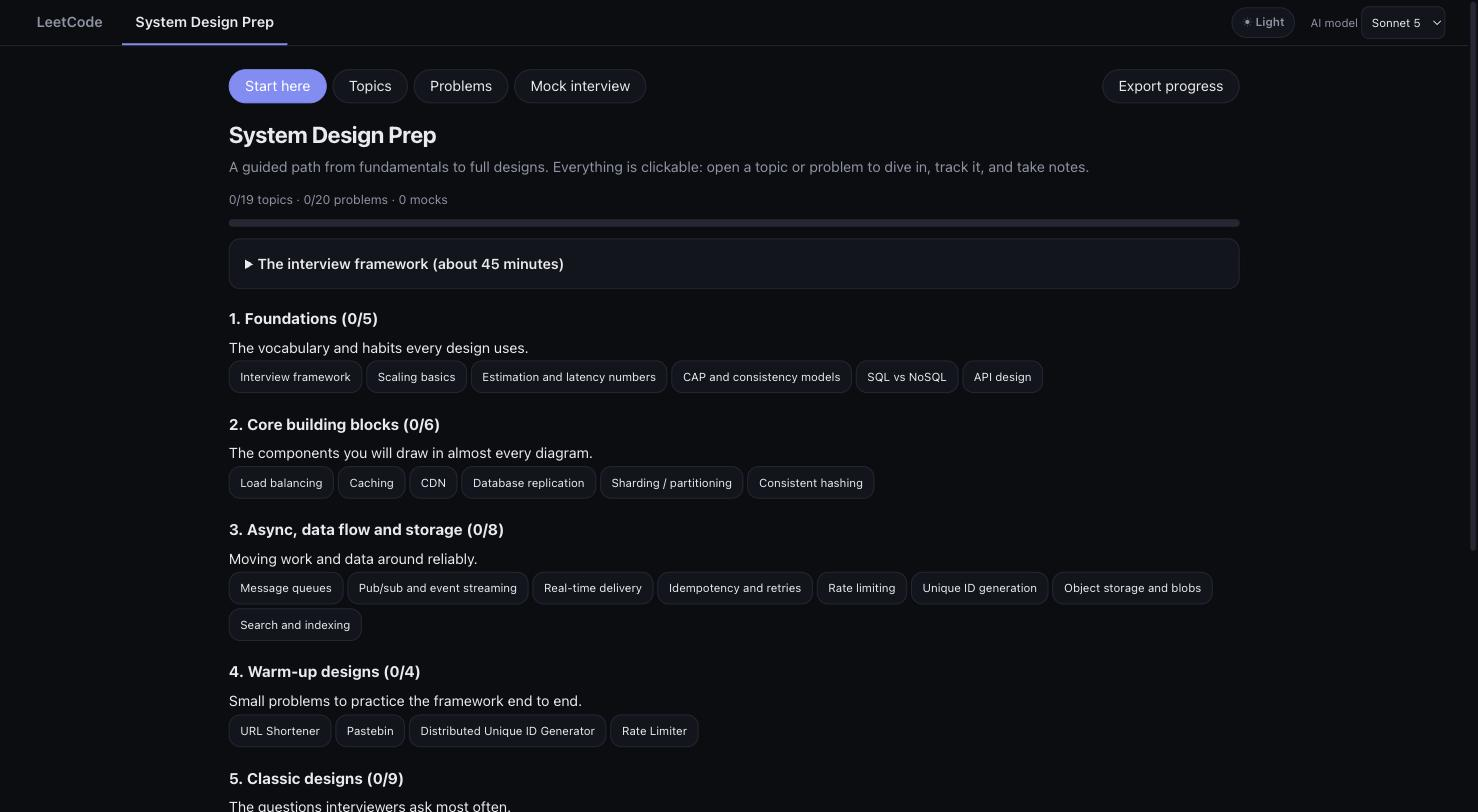
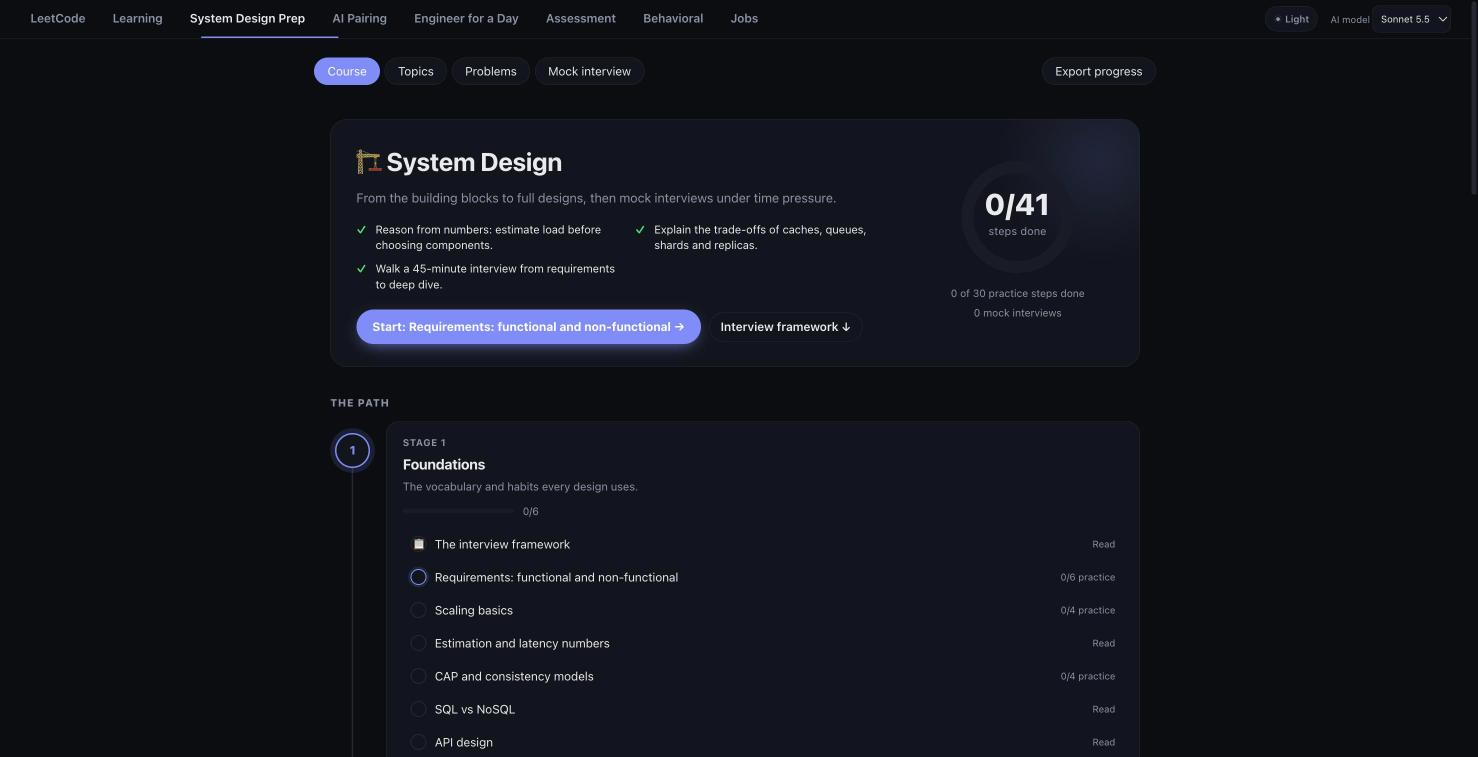
update readme with recent images

diff --git a/README.md b/README.md
@@ -60,6 +60,8 @@ More and more interviews hand you an AI assistant and watch how you use it. Here
 
 27 scenarios from Easy to Hard: URL slugs for a blog, an LRU cache with TTL, a token-bucket rate limiter, a key-value store with nested transactions, offline sync, an Express-style middleware router, a **PR review** round, a **debug-from-an-incident-ticket** round, an **elevator object-design** round where the requirements change partway through, and more.
 
+![AI Pairing: the editor next to an AI assistant that has just answered a question](docs/media/ai-pairing.jpg)
+
 ## 🏗 System Design Prep
 
 A guided path from the fundamentals to full designs, with topics, practice problems and mock interviews.
@@ -112,9 +114,14 @@ Algorithms still come up, so this tab covers them too. It has tons of problem-co
 
 LeetCode assumes you already know the basics. If writing an adjacency list from memory still takes a minute of thinking, start here.
 
+![Learning tab: ten tracks, from graphs to concurrency](docs/media/learning.jpg)
+
 Each track is a path of short lessons. The first one, **Graphs**, goes from "what is a graph" through representations, DFS, BFS, grids, union-find, topological sort and Dijkstra, then teaches you to recognize which technique a problem wants, and finishes with graph databases in system design.
 
 - **Learn.** Readable lessons with templates worth memorizing, and step-through visualizers for DFS, BFS, components, topological sort and Dijkstra that show the stack, queue or heap at every step.
+
+![BFS lesson: the step-through graph visualizer above the template it animates](docs/media/learn-bfs.jpg)
+
 - **Drill.** An adjacency-list drill draws a random graph and checks the list you write for it. Every code exercise has **Drill from memory**: it clears the editor, blurs the templates and times you.
 - **Practice.** Code exercises run against real tests in your browser. Quick checks explain the answer. Written answers (like "should this use Neo4j?") get feedback from the AI tutor, and the AI can review your code too.
 - **Track it.** Mark lessons complete, flag ones to revisit, and keep notes. Completed lessons come back for review after 3, 7 and 21 days. An **Ask the tutor** panel knows the lesson you're reading.
